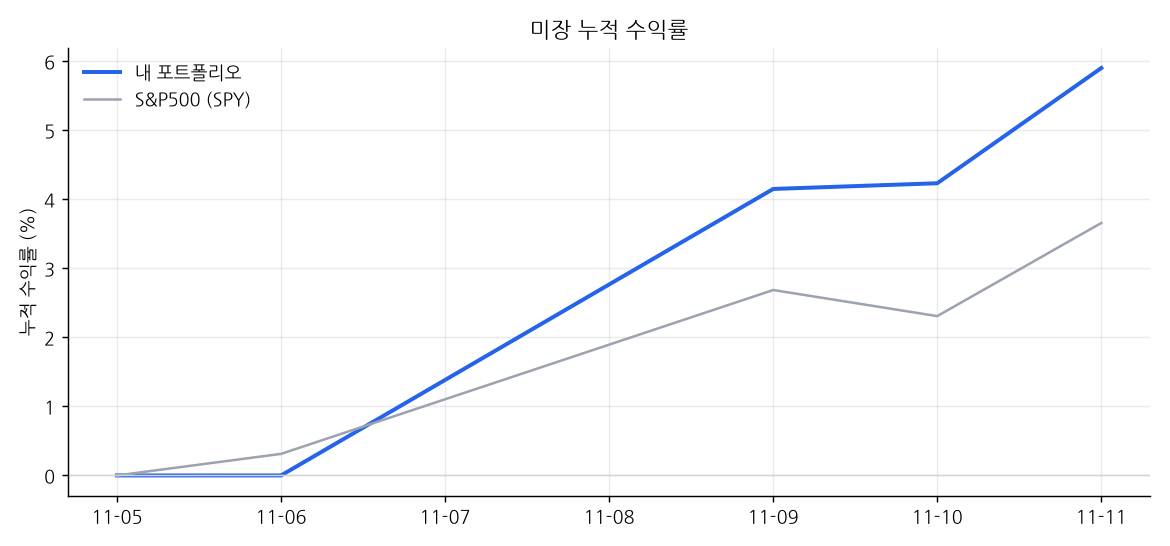
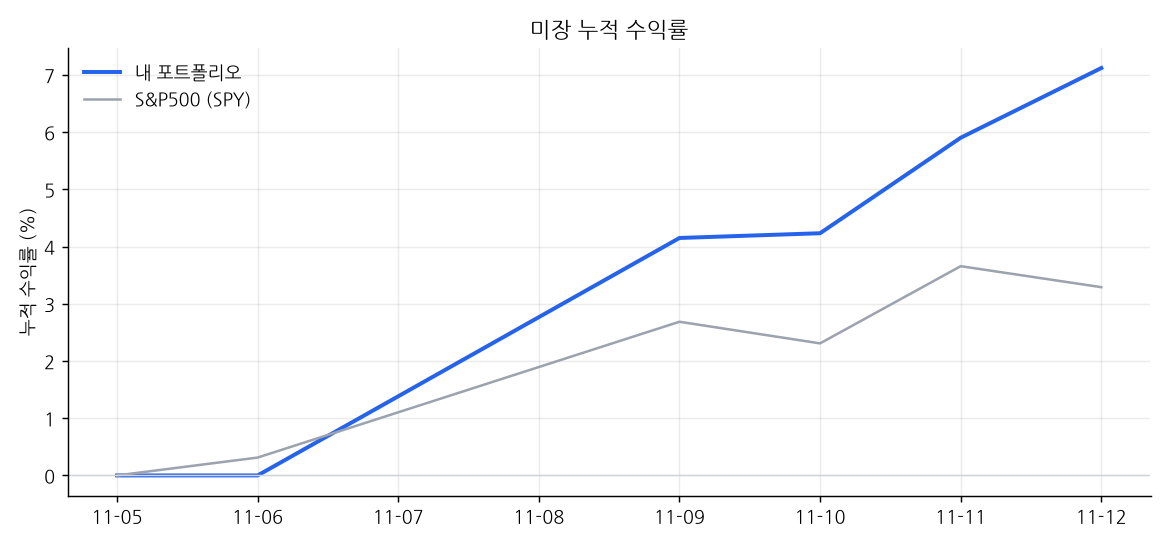
dashboard 2026-11-13 07:30

diff --git a/README.md b/README.md
@@ -1,10 +1,10 @@
 # 📈 내 자동매매 포트폴리오
 
-_마지막 갱신: 2026-11-12 16:21 (KST) · 라즈베리파이 자동 업데이트_
+_마지막 갱신: 2026-11-13 07:30 (KST) · 라즈베리파이 자동 업데이트_
 
 | 트랙 | 시작일 | 누적 수익률 | 비교 지수 | 초과 | 최근 1개월 | 국면 |
 |---|---|---|---|---|---|---|
-| 미장 | 2026-11-05 | **+5.90%** | +3.66% | +2.24% | - | BULL |
+| 미장 | 2026-11-05 | **+7.12%** | +3.29% | +3.83% | - | BULL |
 | 국장 | 2026-11-06 | **+0.41%** | +6.63% | -6.22% | - | BEAR |
 
 ## 미장
@@ -13,16 +13,16 @@ _마지막 갱신: 2026-11-12 16:21 (KST) · 라즈베리파이 자동 업데이
 
 | 종목 | 비중 |
 |---|---|
-| AMD | 11.5% |
-| AVGO | 10.5% |
+| AMD | 12.1% |
+| AVGO | 10.9% |
 | TSLA | 10.4% |
-| AAPL | 9.8% |
-| AMZN | 9.6% |
-| LLY | 9.6% |
-| META | 9.6% |
+| AAPL | 9.7% |
+| AMZN | 9.5% |
 | GOOGL | 9.5% |
-| MSFT | 8.9% |
-| NVDA | 8.4% |
+| LLY | 9.4% |
+| META | 9.4% |
+| MSFT | 8.8% |
+| NVDA | 8.0% |
 | 현금 | 2.3% |
 
 ![미장 비중](charts/us_weights.png)
@@ -33,8 +33,8 @@ _마지막 갱신: 2026-11-12 16:21 (KST) · 라즈베리파이 자동 업데이
 
 | 종목 | 비중 |
 |---|---|
-| KODEX 단기채권 | 49.4% |
-| 현금 | 14.3% |
+| KODEX 단기채권 | 49.3% |
+| 현금 | 14.4% |
 | 하나금융지주 | 5.0% |
 | 신한지주 | 4.9% |
 | 현대모비스 | 4.9% |
